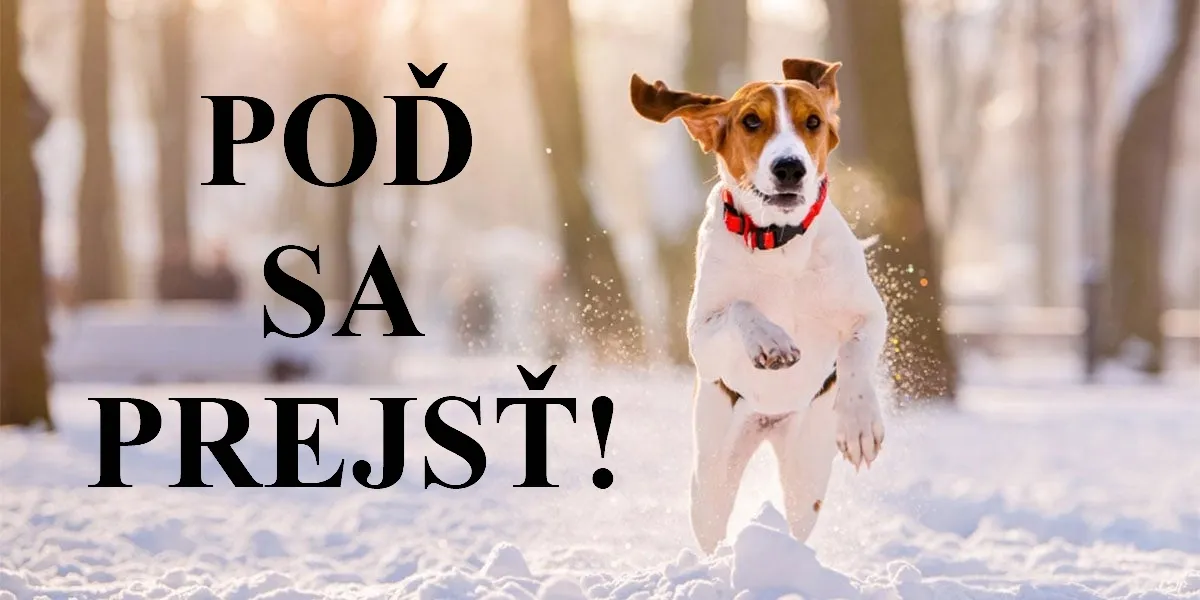
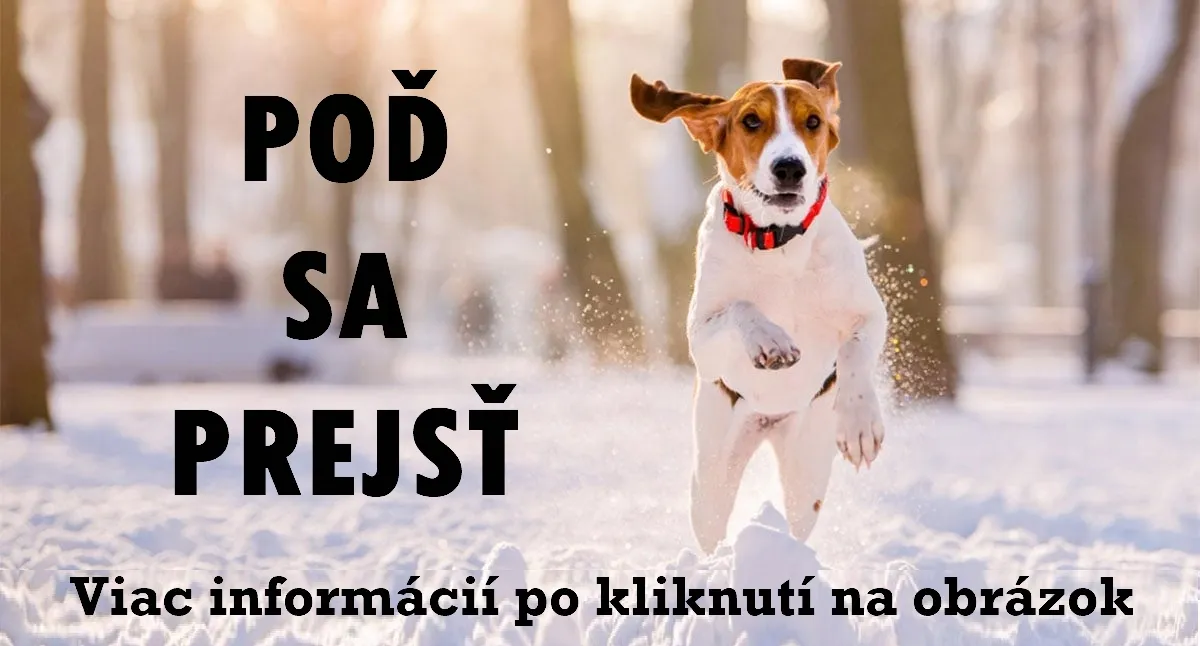
change index cards

diff --git a/index.html b/index.html
@@ -18,77 +18,71 @@
     <div id="navigation"></div>
     <div class="row">
         <div class="card mb-4 col-lg-4 col-md-12" onclick="redirectToPage('walk')">
-            <img src="images/banner-walk.webp" class="card-img-top" alt="banner-walk" height="200">
+            <img src="images/banner-walk.webp" class="card-img-top rounded-3" alt="banner-walk" height="200">
         </div>
 
         <div class="card mb-4 col-lg-4 col-md-12" onclick="redirectToPage('adopt')">
-            <img src="images/banner-adopt.jpg" class="card-img-top" alt="banner-adopt" height="200">
+            <img src="images/banner-adopt.webp" class="card-img-top rounded-3" alt="banner-adopt" height="200">
         </div>
 
         <div class="card mb-4 col-lg-4 col-md-12" onclick="redirectToPage('help')">
-            <img src="images/banner-help.jpg" class="card-img-top" alt="banner-help" height="200">
+            <img src="images/banner-help.webp" class="card-img-top rounded-3" alt="banner-help" height="200">
         </div>
     </div>
 
-    <div style="height: 2px; background-color: #4CAF50; width: 100%; margin: 20px auto;"></div>
+    <div style="height: 2px; background-color: #4CAF50; width: 100%; margin: 15px auto;"></div>
 
 
     <div class="row text-center">
 
-        <h2>Za posledný rok </h2>
+        <h2 class="mb-4 text-decoration-underline">Za posledný rok</h2>
         <div class="card">
-            <div class="card-body">
+            <div class="card-body p-0">
                 <h4 class="fw-bold">230 psíkov</h4>
                 <p>bolo na prechádzke</p>
             </div>
         </div>
         <div class="card">
-            <div class="card-body">
+            <div class="card-body p-0">
                 <h4 class="fw-bold">1541 zvierat</h4>
                 <p>našlo svoj nový domov</p>
             </div>
         </div>
         <div class="card">
-            <div class="card-body">
+            <div class="card-body p-0">
                 <h4 class="fw-bold">547 príspevkov</h4>
                 <p>bolo prijatých na stravu a hračky</p>
             </div>
         </div>
     </div>
 
-    <div style="height: 2px; background-color: #4CAF50; width: 100%; margin: 20px auto;"></div>
+    <div style="height: 2px; background-color: #4CAF50; width: 100%; margin: 15px auto;"></div>
 
-    <h2>Čo je nové? </h2>
+    <div class="row text-center justify-content-center">
 
-    <div class="row text-center">
+        <h2 class="mb-4 text-decoration-underline">Čo je nové?</h2>
 
-    </div>
-    <div class="card_index">
-        <img src="images/gump2.webp" alt="Gump">
-        <h5>
-            Gump je súťasťou už druhého filmu!
-        </h5>
-        <p>
-            <a href="https://www.csfd.sk/film/1364048-gump-sme-dvojka/prehlad/" target="_blank">Čítaj ďalej</a>
-        </p>
-    </div>
+        <div class="card card-blog border-dark pt-2 mb-2" style="max-width: 21rem;">
+            <img src="images/gump2.webp" class="card-img-top" alt="Gump" height="300">
+            <div class="card-body">
+                <h5 class="card-title">Gump je súčasťou už druhého filmu!</h5>
+                <p class="card-text">Adoptovaný psík Gump sa stal hviezdou ďalšieho českého filmu s hlavným hercom Bolekom Polívkom.</p>
+                <a href="#" class="btn btn-primary" onclick="redirectToPage('')">Čítať ďalej</a>
+            </div>
+        </div>
 
-    <div style="height: 2px; background-color: #4CAF50; width: 50%; margin: 20px auto;"></div>
-
-    <div class="card_index">
-        <img src="images/dogs/pampi.jpg" alt="Gump">
-        <h5>
-            Naša Pampi je slávna :)
-        </h5>
-        <p>
-            <a href="https://www.instagram.com/pampi_zavacka/" target="_blank">Instagramový profil</a>
-        </p>
+        <div class="card card-blog border-dark pt-2 mb-2" style="max-width: 21rem;">
+            <img src="images/dogs/pampi.jpg" class="card-img-top" alt="Pampi" height="300">
+            <div class="card-body">
+                <h5 class="card-title">Naša Pampi je slávna :)</h5>
+                <p class="card-text">Adoptovaný psík Pampi sa stal hviezdou na sociálnych sieťach už má 123 tisíc sledovateľov.</p>
+                <a href="#" class="btn btn-primary" onclick="redirectToPage('')">Čítať ďalej</a>
+            </div>
+        </div>
     </div>
 
-    <div style="height: 2px; background-color: #4CAF50; width: 50%; margin: 20px auto;"></div>
-
     <div class="card_index">
-        <a href="https://blog.paf.sk/" target="_blank">ďalšie články</a>
+        <a href="#" onclick="redirectToPage('')">ďalšie články</a>
     </div>
 
 </div>

diff --git a/styles/styles.css b/styles/styles.css
@@ -58,6 +58,10 @@ html, body {
 .centered-list li {
     margin: 5px 0;
 }
+
+.card-blog {
+    border:1px solid #343a40; !important;
+}
 .card_index {
     text-align: center; /* Zarovná text na stred */
 }
